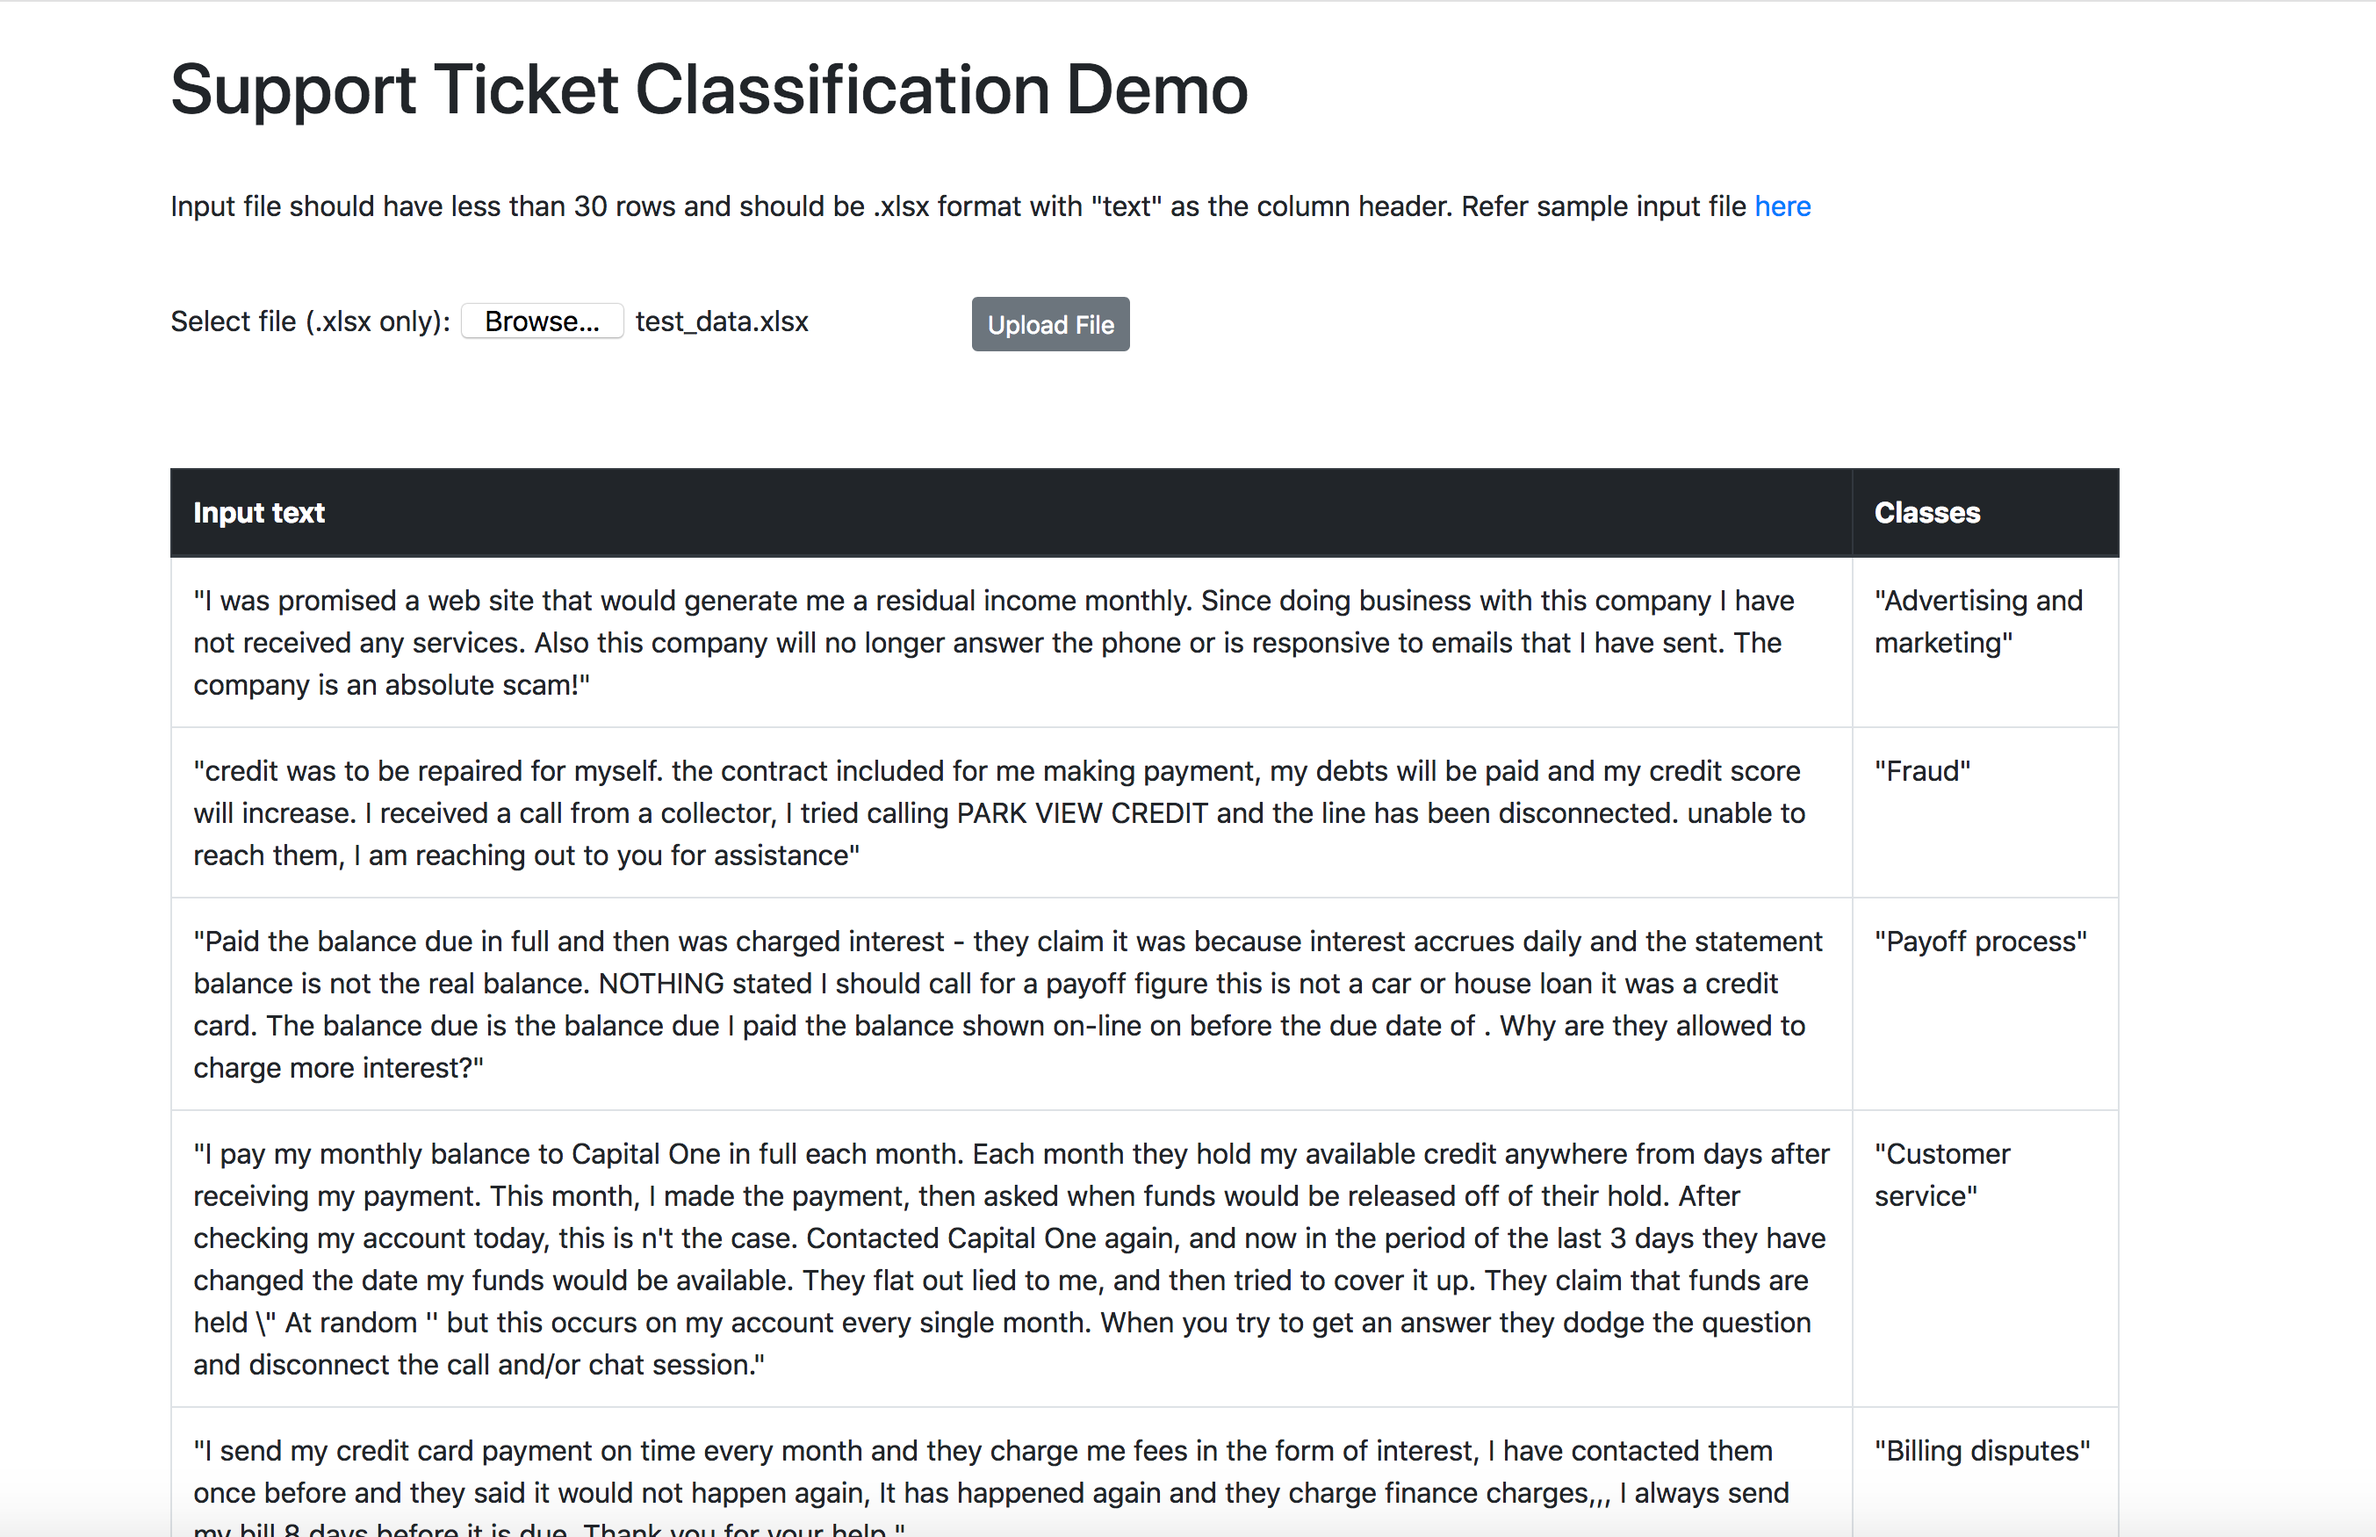
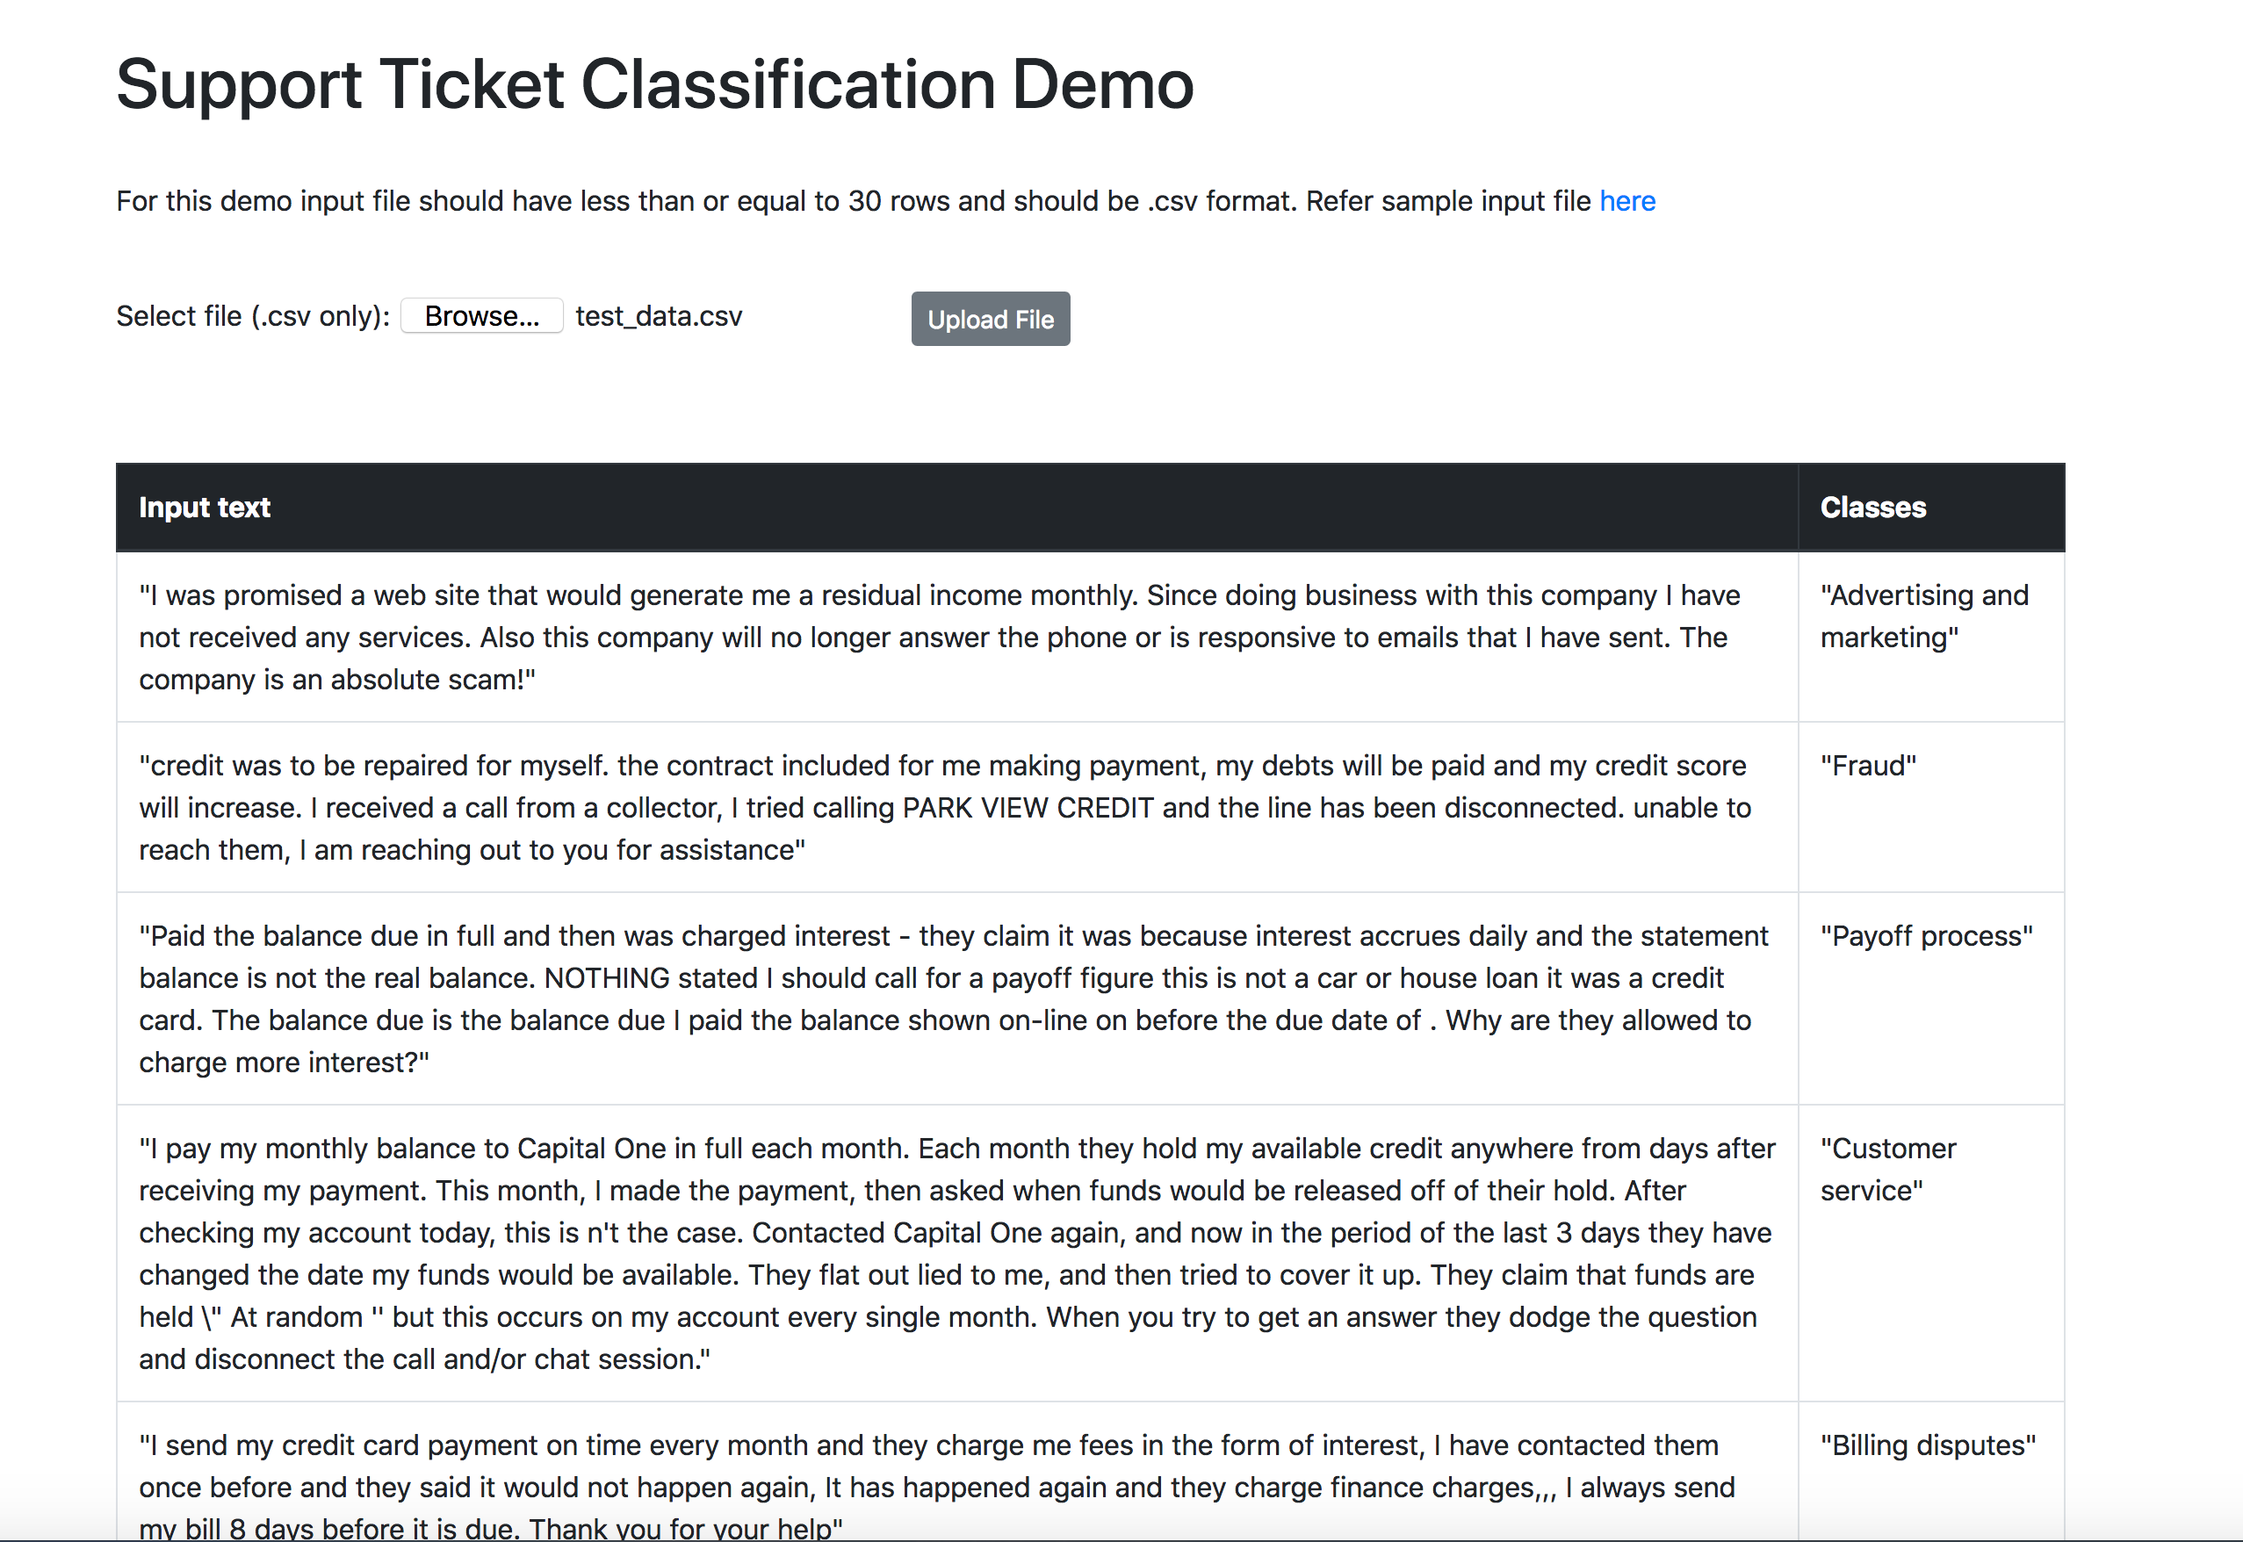
Updated README & output image
1. Updated Readme
2. Updated sample output image

diff --git a/README.md b/README.md
@@ -14,7 +14,7 @@ When the reader has completed this Code Pattern, they will understand how to:
 
 1. User interacts with Natural Language Classifier (NLC) GUI to train the model.
 2. [Consumer complaint support ticket Dataset](https://github.com/IBM/support-ticket-classification/tree/master/docs/training_data) is loaded to the NLC service for training.
-3. User uploads excel file (having .xlsx extension) with test data to have it classified.
+3. User uploads excel file (having .csv extension) with test data to have it classified.
 4. App uses Watson Natural Language Classifier to classify the collection to mortgage, banking, loans or credit card related support tickets.
 
 ## Included components
